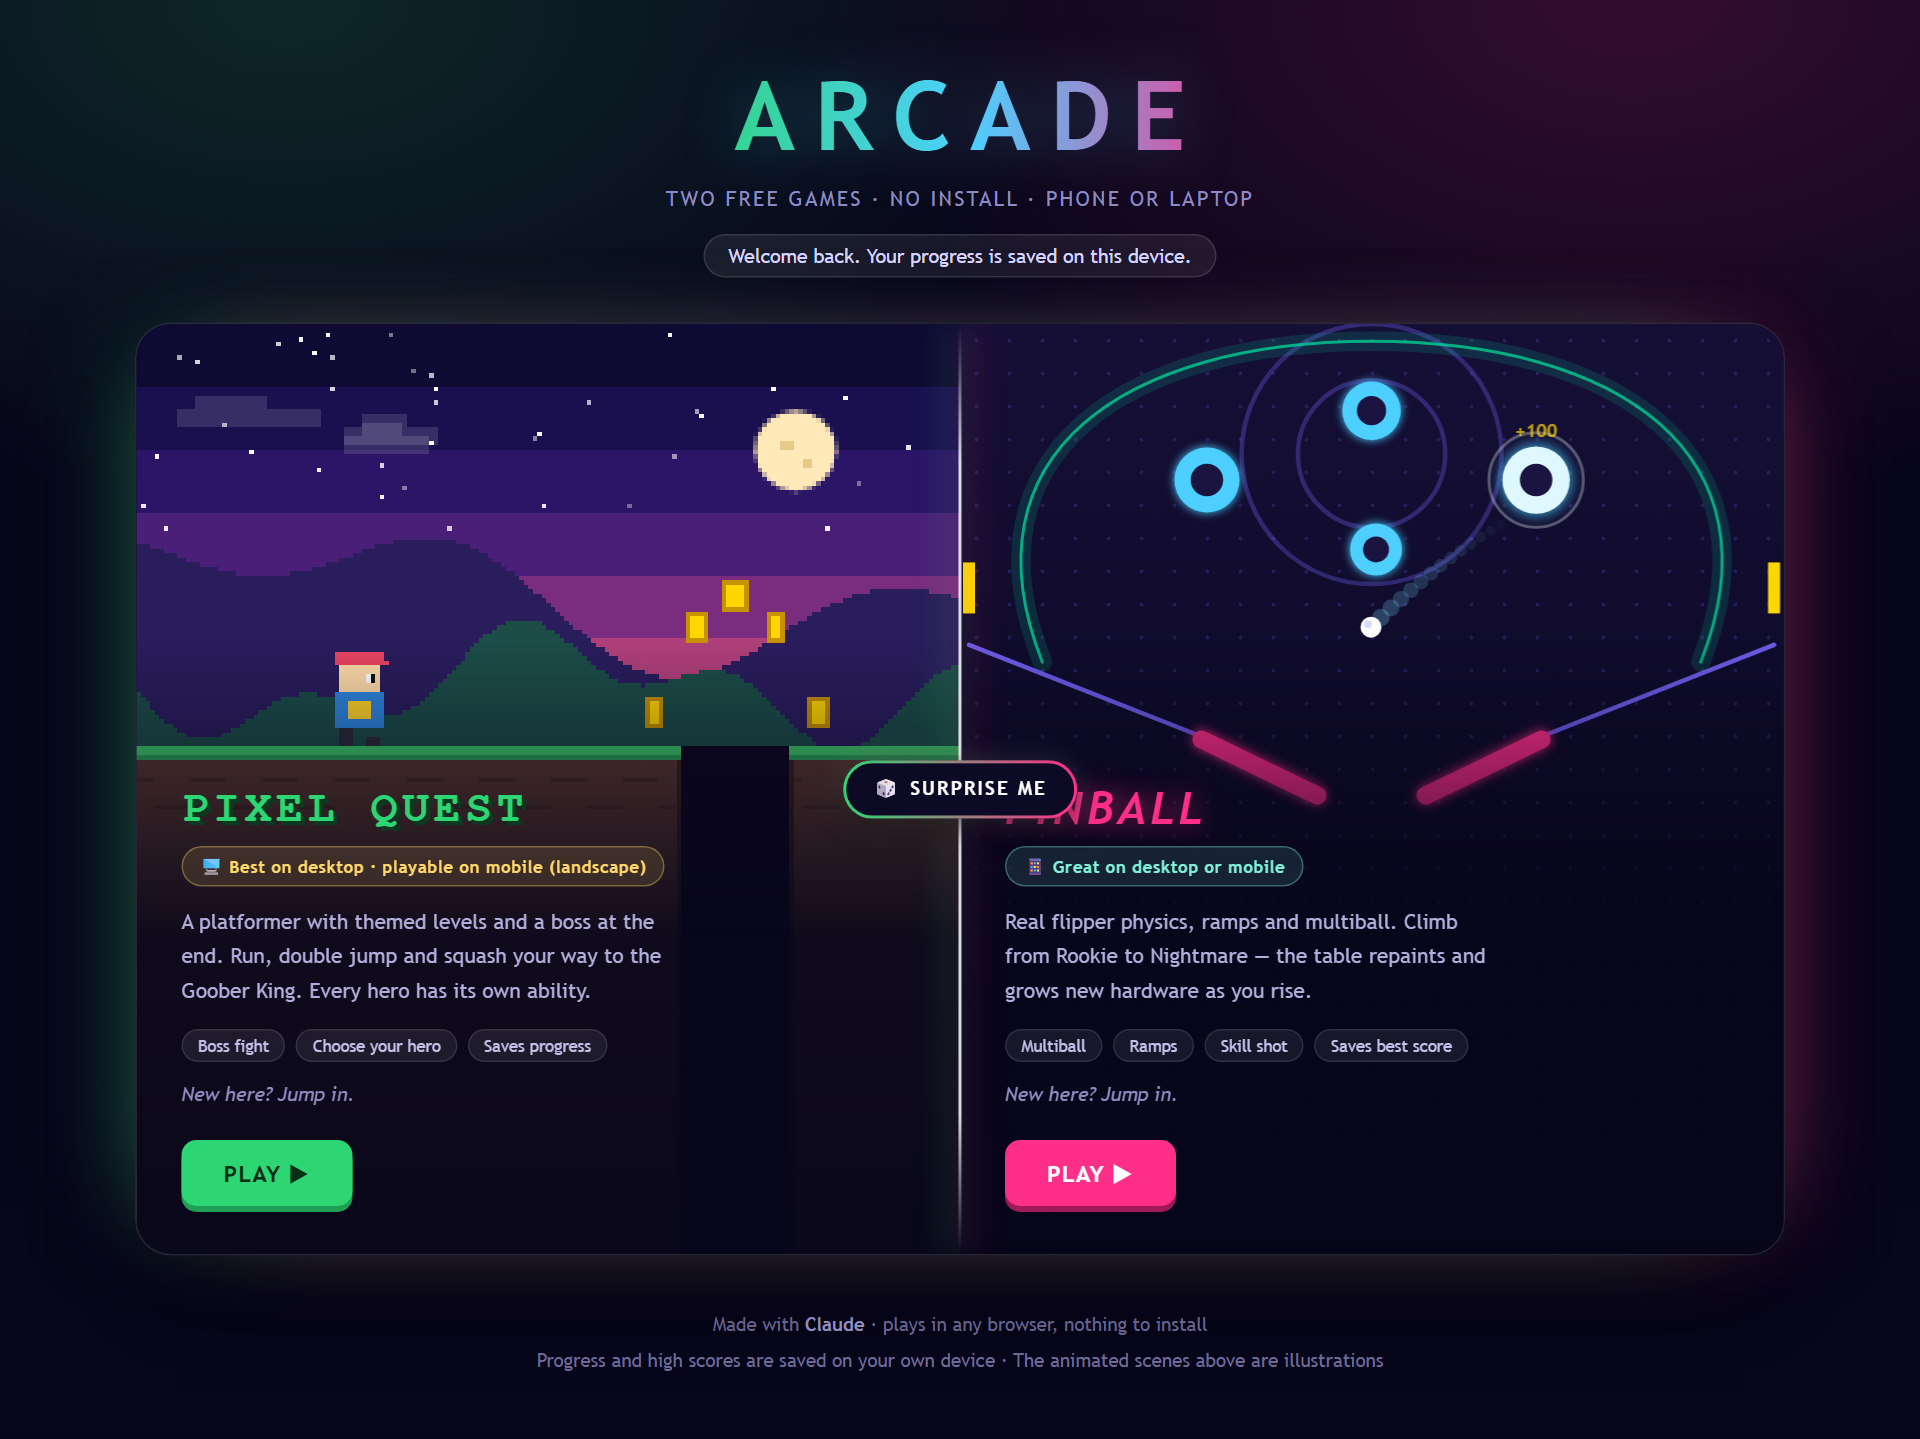
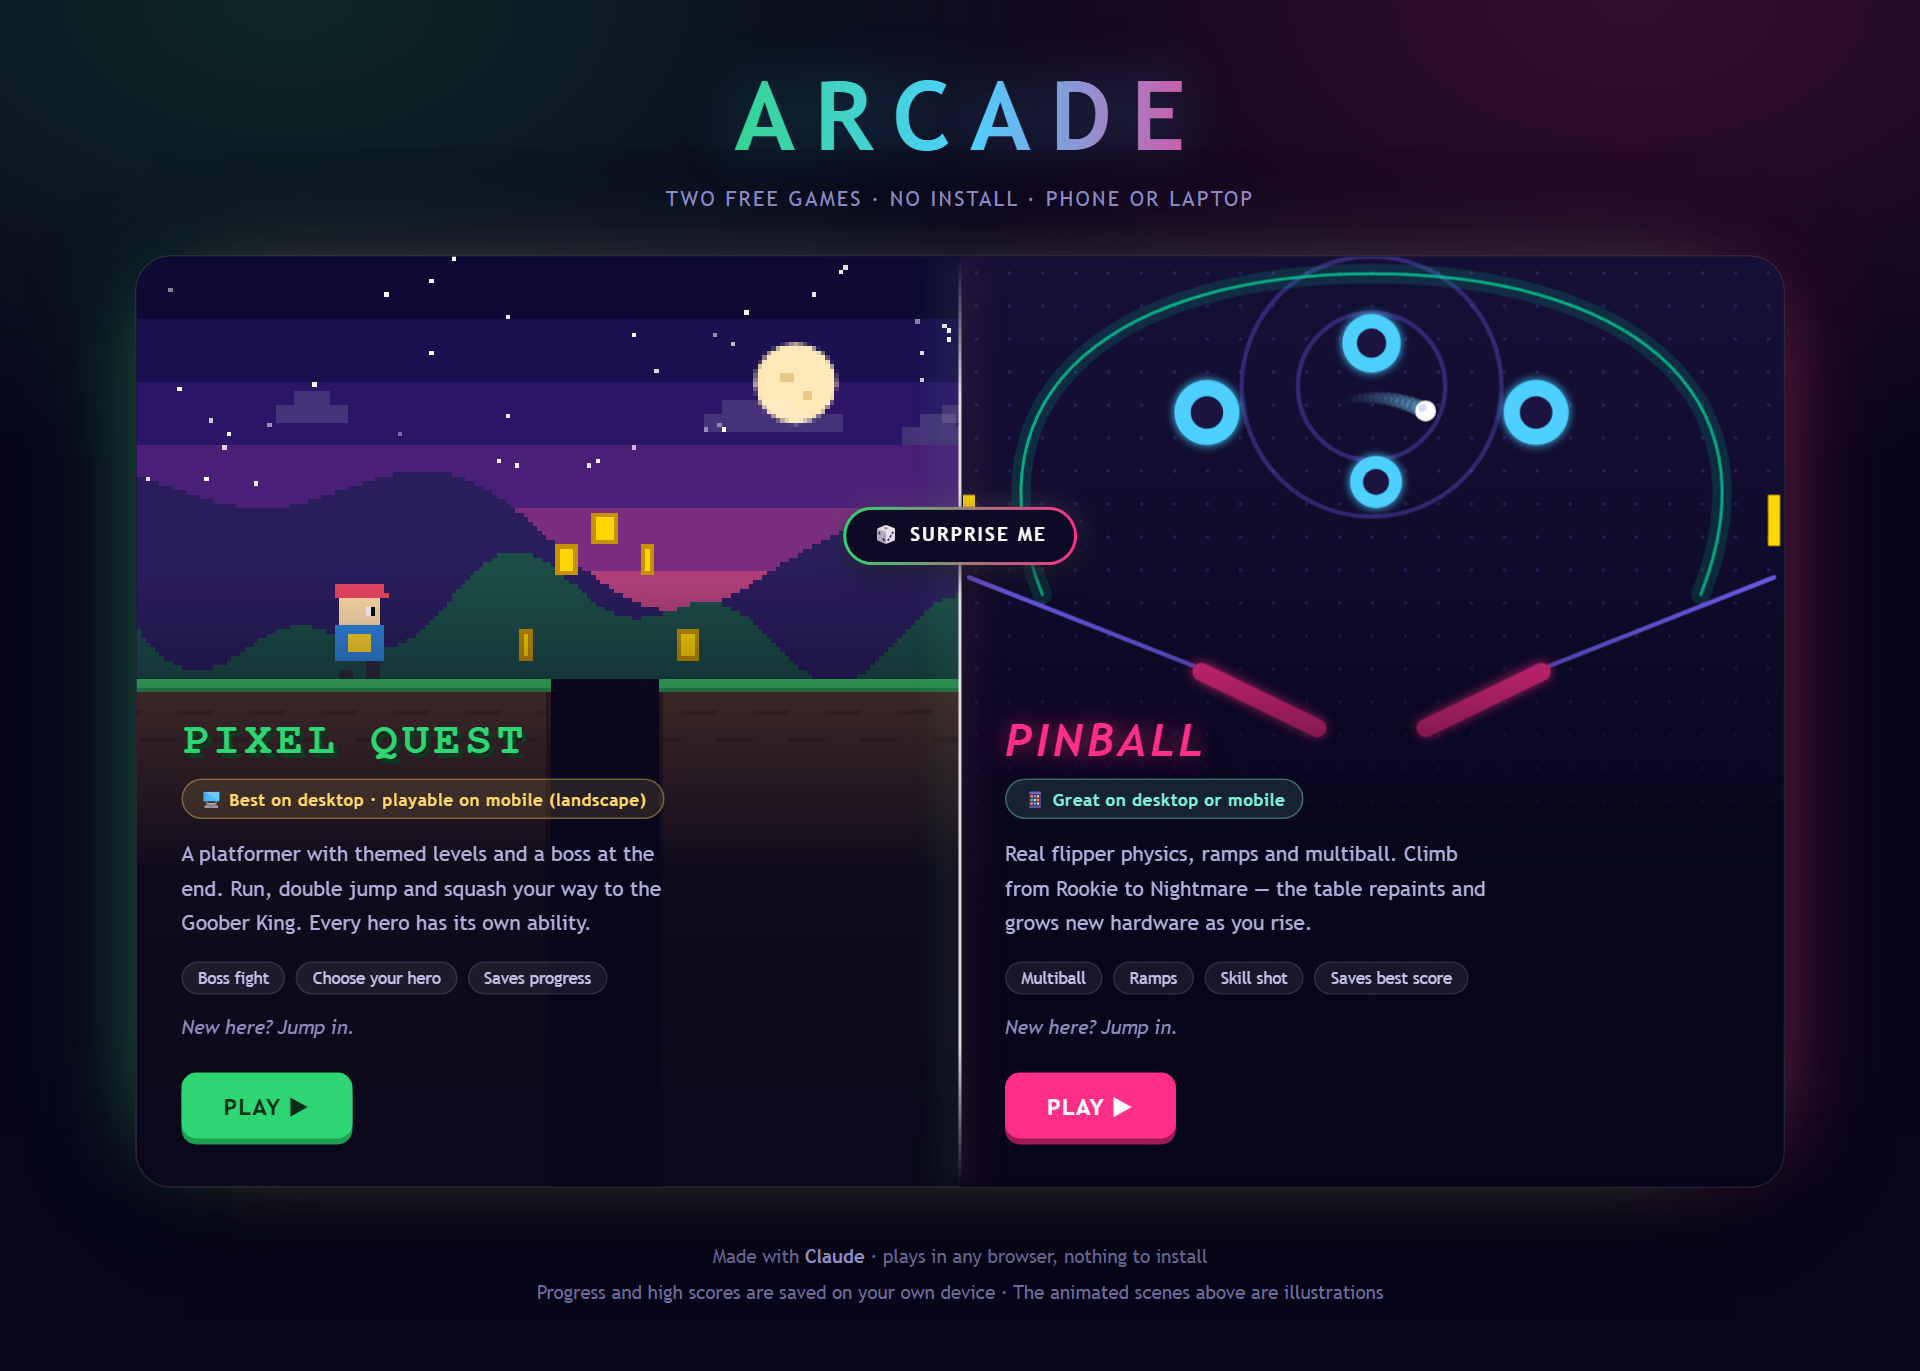
Fix landing page: hide Welcome back for new visitors, move Surprise Me off the Pinball title
The .welcome rule's display:inline-block overrode the hidden attribute, so
the message showed to everyone. On desktop the Surprise Me button sat at 50%
height, right over the PINBALL heading; it now sits up in the scenes (30%),
and keeps its seam position on the stacked mobile layout.

Changed region(s): [[0.0625, 0.0613, 0.9375, 0.8578], [0.2812, 0.8884, 0.7188, 0.9497]]

diff --git a/index.html b/index.html
@@ -42,6 +42,7 @@
     display:inline-block; margin-top:16px; padding:6px 16px; border-radius:20px; font-size:13px;
     color:#d8d5ff; background:rgba(255,255,255,.07); border:1px solid var(--line);
   }
+  .welcome[hidden] { display:none; }   /* inline-block above would otherwise beat the hidden attribute */
 
   /* ---------- the stage: one scene, two worlds ---------- */
   .stage {
@@ -118,7 +119,7 @@
     box-shadow:-7px 0 20px rgba(46,213,115,.7), 7px 0 20px rgba(255,46,136,.7);
   }
   .surprise {
-    position:absolute; z-index:5; left:50%; top:50%; transform:translate(-50%,-50%);
+    position:absolute; z-index:5; left:50%; top:30%; transform:translate(-50%,-50%);   /* up in the scenes, clear of the titles */
     min-width:150px; padding:11px 18px; border-radius:30px; cursor:pointer;
     font:bold 12.5px/1 'Trebuchet MS', Arial, sans-serif; letter-spacing:1.5px; color:#fff;
     background:#0d0a26; border:2px solid transparent;
@@ -143,6 +144,7 @@
     .seam { left:0; right:0; top:50%; bottom:auto; width:auto; height:2px; transform:translateY(-1px);
       background:linear-gradient(to right, transparent, rgba(255,255,255,.85) 15%, rgba(255,255,255,.85) 85%, transparent);
       box-shadow:0 -7px 20px rgba(46,213,115,.7), 0 7px 20px rgba(255,46,136,.7); }
+    .surprise { top:50%; }   /* stacked: sits on the horizontal seam between the two cards */
     body { padding:28px 14px 32px; }
     .name { font-size:26px; }
   }
